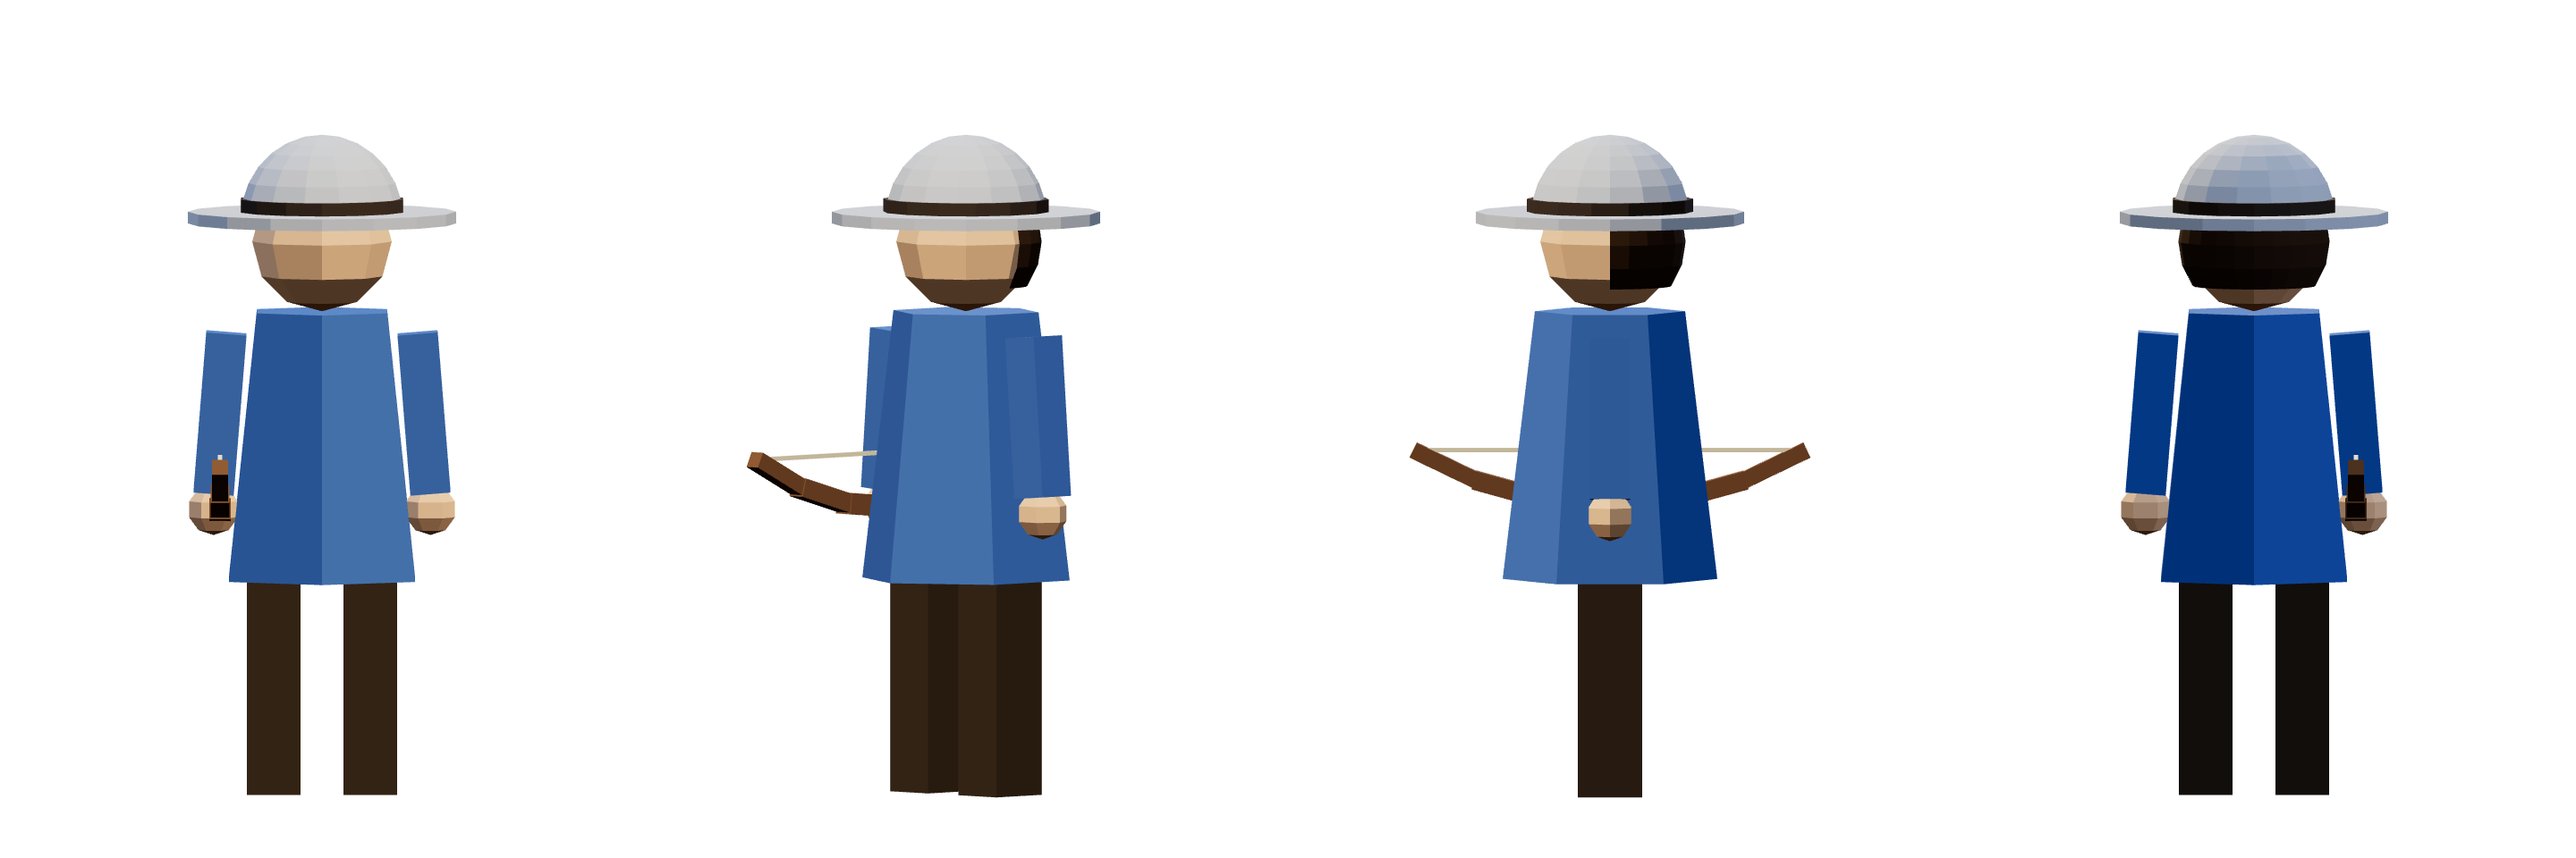
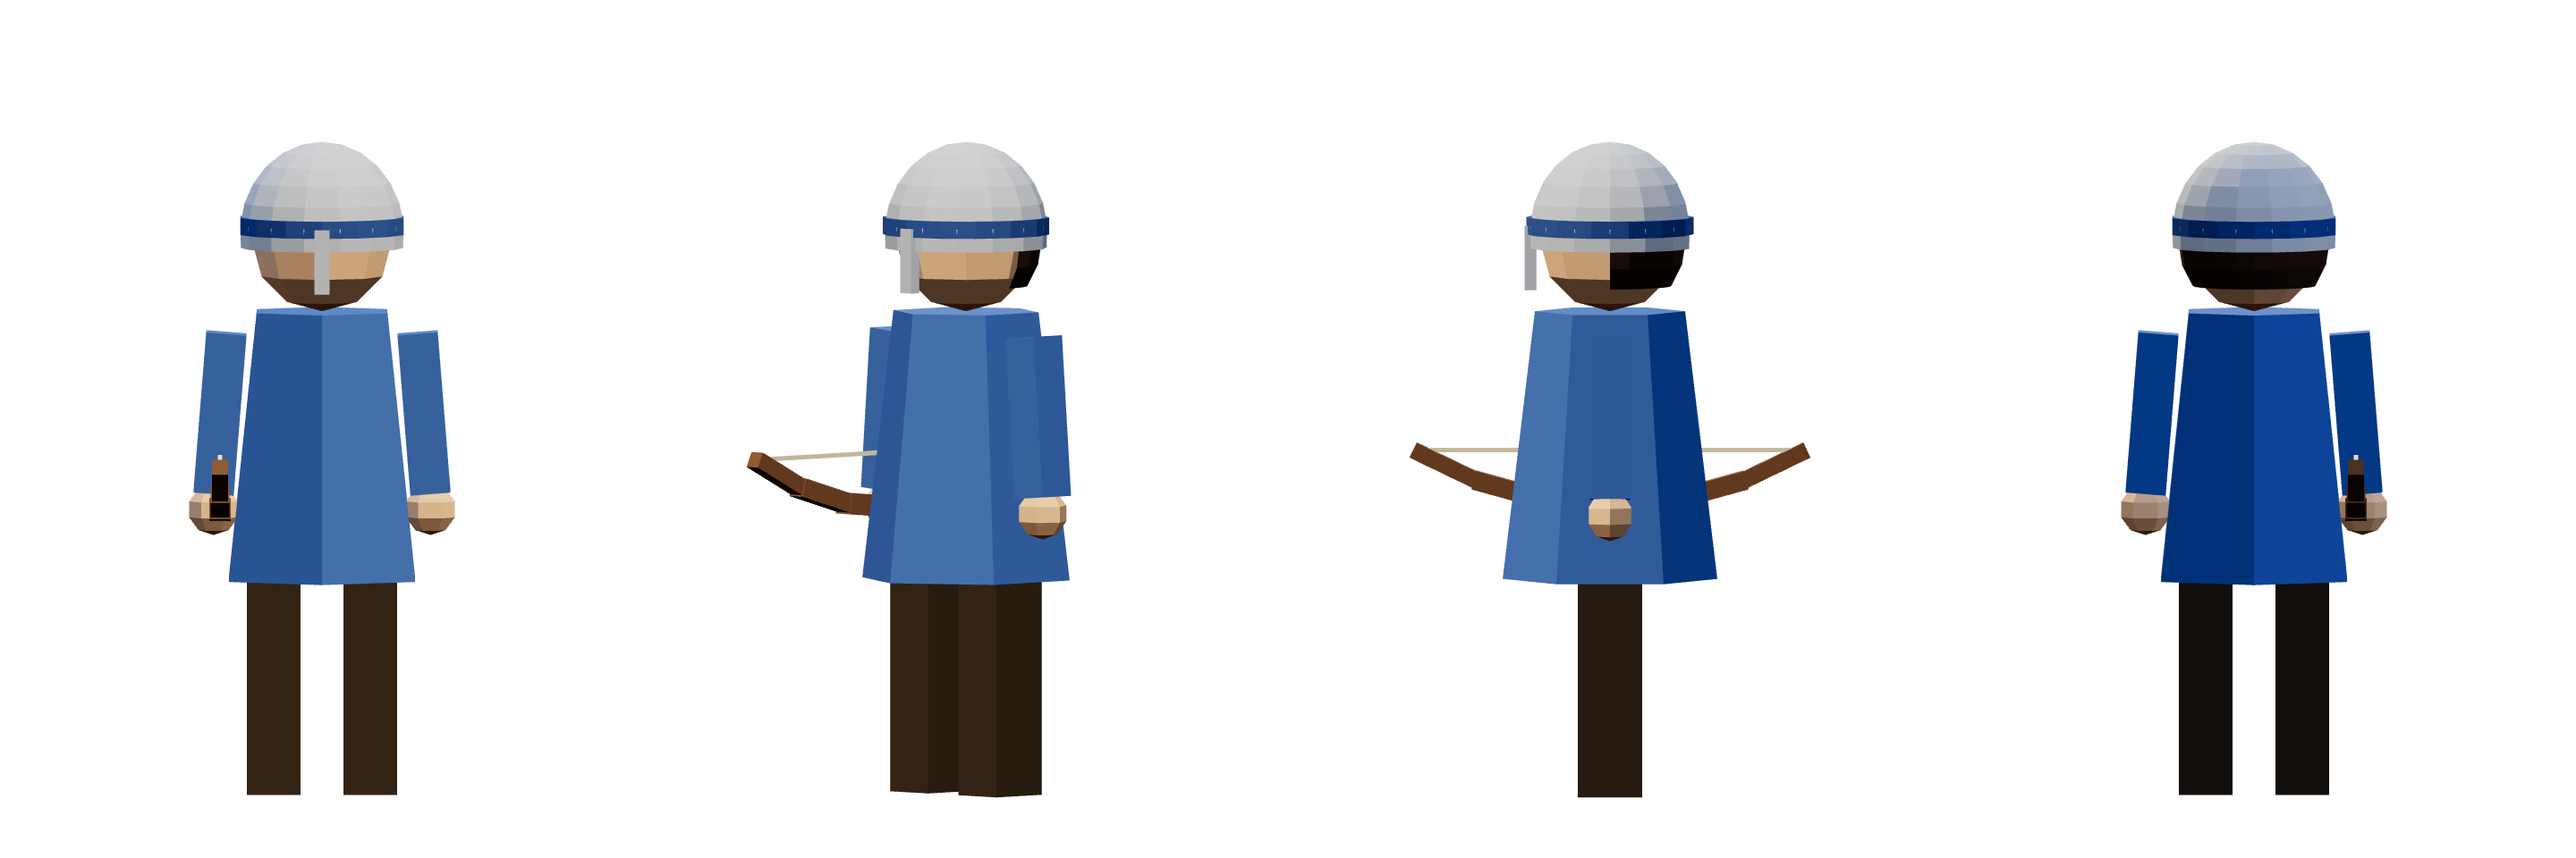
Mason canvas apron, soldier helmet for villager archers, blue flags
- Mason's flat brown block is replaced with a canvas apron curved round the
  body, a pale hem and a leather waist band
- Villager archers on towers and the castle wear a steel round helmet with
  a blue band and nose guard
- The castle's and towers' flags are blue, the town's colour
- Re-rendered design/characters

diff --git a/index.html b/index.html
@@ -498,7 +498,7 @@ grid.visible = false; scene.add(grid);
 // ---------- materials + primitives ----------
 const mat = c => new THREE.MeshStandardMaterial({ color: c, roughness: .9, flatShading: true });
 const M = { plaster: mat('#dccba2'), timber: mat('#6e4c30'), roof: mat('#8d4a2c'), stone: mat('#8a857a'),
-  wood: mat('#957049'), rough: mat('#8a6a48'), dark: mat('#2a2018'), flag: mat('#b8392a'), stone2: mat('#a39d8f'), court: mat('#7d6a4f'),
+  wood: mat('#957049'), rough: mat('#8a6a48'), dark: mat('#2a2018'), flag: mat('#3466b0'), stone2: mat('#a39d8f'), court: mat('#7d6a4f'),
   log: mat('#6e4b2c'), logEnd: mat('#c9a271'), thatch: mat('#b39446'), thatchOld: mat('#9e8650'), tile: mat('#9b4a2e'), mud: mat('#8a7350'),
   iron: mat('#5d6064'), soil: mat('#5e4630'), crop1: mat('#6f8f3a'), crop2: mat('#93a246'), wheat: mat('#d1b45a'), hay: mat('#c9ab55'),
   canvas: mat('#cfc2a0'), banner: mat('#2f4f8a'), leaf: mat('#4f7a32') };
@@ -1590,7 +1590,7 @@ function makeHair(m) {
   return h;
 }
 // headgear for soldiers and raiders, rounded rather than pointed
-const steelM = mat('#a3aab2'), ironM = mat('#5b6067'), bandM = mat('#3b3129'), plumeM = mat('#b3261e'),
+const steelM = mat('#a3aab2'), soldierBandM = mat('#2d4f86'), ironM = mat('#5b6067'), bandM = mat('#3b3129'), plumeM = mat('#b3261e'),
   raiderHoodM = (() => { const m = mat('#3a2a26'); m.side = THREE.DoubleSide; return m; })();
 function makeHelm(kind) {
   const h = new THREE.Group(), add = o => { o.castShadow = true; h.add(o); return o; };
@@ -1598,6 +1598,10 @@ function makeHelm(kind) {
     const d = add(new THREE.Mesh(new THREE.SphereGeometry(.152, 14, 7, 0, Math.PI * 2, 0, Math.PI * .5), steelM)); d.position.y = 1.07; d.scale.y = 1.05;
     add(cyl(.25, .25, .022, 16, steelM, 0, 1.075, 0));
     add(cyl(.155, .155, .03, 14, bandM, 0, 1.095, 0));
+  } else if (kind === 'soldier') {          // town archer: bright steel round helm, blue band, nose guard
+    const d = add(new THREE.Mesh(new THREE.SphereGeometry(.153, 14, 7, 0, Math.PI * 2, 0, Math.PI * .55), steelM)); d.position.y = 1.045; d.scale.y = 1.12;
+    add(cyl(.156, .156, .032, 14, soldierBandM, 0, 1.06, 0));
+    add(box(.028, .12, .022, steelM, 0, 1.0, .148));
   } else if (kind === 'hood') {              // raider archer: dark rounded hood open at the face, short collar
     const d = add(new THREE.Mesh(new THREE.SphereGeometry(.158, 12, 8, Math.PI * .75, Math.PI * 1.5, 0, Math.PI * .66), raiderHoodM)); d.position.set(0, 1.04, -.01);
     add(cyl(.16, .23, .1, 10, raiderHoodM, 0, .9, -.01));
@@ -1647,6 +1651,7 @@ const OUTFIT = {
   hammer: { tunic: mat('#c98f2e'), hat: 'felt', hatM: mat('#6b4a2b'), belt: true },   // builders: amber smock, brown felt hat, tool belt
 };
 const strawM = mat('#d2b56a'), leatherM = mat('#5a4630'), featherM = mat('#b8452c');
+const apronM = (() => { const m = mat('#b9ae96'); m.side = THREE.DoubleSide; return m; })(), apronHemM = (() => { const m = mat('#ddd5c2'); m.side = THREE.DoubleSide; return m; })();
 function dress(v, kind) {
   const O = OUTFIT[kind], tun = O ? O.tunic : v.baseTunic;
   v.torso.material = tun; v.arms.forEach(a => a.userData.sleeve.material = tun);
@@ -1666,7 +1671,13 @@ function dress(v, kind) {
   }
   else if (O.hat === 'felt') { h.add(cyl(.2, .2, .03, 10, O.hatM, 0, 1.12, 0)); h.add(cyl(.12, .13, .11, 10, O.hatM, 0, 1.19, 0)); }
   v.body.add(h); v.hatG = h;
-  if (O && O.apron) { v.apron = box(.27, .36, .03, leatherM, 0, .6, .19); v.body.add(v.apron); }
+  if (O && O.apron) {                       // mason's canvas apron: curved round the front of the body, waist tie and a chalk-pale hem
+    v.apron = new THREE.Group();
+    const cloth = new THREE.Mesh(new THREE.CylinderGeometry(.17, .216, .4, 12, 1, true, -Math.PI / 3, Math.PI * 2 / 3), apronM); cloth.position.y = .56; cloth.castShadow = true; v.apron.add(cloth);
+    const hem = new THREE.Mesh(new THREE.CylinderGeometry(.216, .218, .04, 12, 1, true, -Math.PI / 3, Math.PI * 2 / 3), apronHemM); hem.position.y = .37; v.apron.add(hem);
+    v.apron.add(cyl(.176, .176, .045, 12, leatherM, 0, .77, 0));
+    v.body.add(v.apron);
+  }
   else if (O && O.belt) {                    // leather tool belt with a pouch and a spare chisel
     v.apron = new THREE.Group();
     v.apron.add(cyl(.192, .196, .06, 10, leatherM, 0, .47, 0));
@@ -2072,7 +2083,7 @@ const POSTS = {
 function postOffset(B, a) { const L = POSTS[B.type][B.tier - 1]; return L[a % L.length]; }
 function showDefender(B, a) {
   B.figs = B.figs || [];
-  if (!B.figs[a]) B.figs[a] = makePerson({ tunic: guardTunic, helm: 'kettle', tool: 'bow' });
+  if (!B.figs[a]) B.figs[a] = makePerson({ tunic: guardTunic, helm: 'soldier', tool: 'bow' });
   const f = B.figs[a], o = postOffset(B, a), c = center(B);
   f.g.position.set(c.x + o[0], B.group.position.y + o[1], c.z + o[2]); f.g.rotation.y = Math.atan2(o[0] || .01, o[2] || .01); f.g.visible = true;
 }

diff --git a/CLAUDE.md b/CLAUDE.md
@@ -63,7 +63,7 @@ Castle night posts: T1 = 4 small corner lookout platforms (y 2.55); T2 = wooden 
 - **Instancing**: trees (instanceColor), clutter (320 tufts, pebbles, bushes) hidden on occupied/path cells. Lone trees within 12 m of the castle, forest 12–18 m.
 - **Lights**: pool of 4 PointLights shared by night lamps; gradient sky dome.
 - **Sprites**: HP/progress bars (`fg.center.x=.5/f` trick); floating SVG icon pop-ups for income (`floatRes`).
-- **People**: `makePerson` → arms on pivots (angle 0 = hanging, −1.57 = forward, −3 = overhead). Tools come from `makeTool(kind)` and are parented to the hand (`arms[1]`; bow on `arms[0]`); `giveTool(v,kind)`. Task poses are all one-handed (the single-segment arms can't both reach one handle; the free arm steadies): axe overhead chop, pick overhead strike, hoe bent low, hammer; log on right shoulder with the hand resting on it, stone held at chest in both hands. Axe and hoe heads sit on the local −z side so they lead the swing / face the soil. Bow is a gentle C (arc segments). Colour code: villagers wear yellows (`tunics`), soldiers blue (`guardTunic`), every raider the same red (`raiderRed`). Everyone has short hair (`makeHair`, `hairs` palette); some plain villagers add a soft cloth cap. Headgear via `makeHelm`: soldier steel kettle hat, raider iron dome with nose and cheek guards, captain adds a red crest, raider archer a dark rounded hood. Outfits via `OUTFIT`/`dress()`: lumberjack yellow/brown checked shirt (`plaidMat` canvas texture) + green wool cap with feather, mason khaki + grey cloth bonnet + leather apron, farmer straw yellow + straw hat, builder amber smock + brown felt hat + tool belt. Renders of all of them: `design/characters/`.
+- **People**: `makePerson` → arms on pivots (angle 0 = hanging, −1.57 = forward, −3 = overhead). Tools come from `makeTool(kind)` and are parented to the hand (`arms[1]`; bow on `arms[0]`); `giveTool(v,kind)`. Task poses are all one-handed (the single-segment arms can't both reach one handle; the free arm steadies): axe overhead chop, pick overhead strike, hoe bent low, hammer; log on right shoulder with the hand resting on it, stone held at chest in both hands. Axe and hoe heads sit on the local −z side so they lead the swing / face the soil. Bow is a gentle C (arc segments). Colour code: villagers wear yellows (`tunics`), soldiers blue (`guardTunic`), every raider the same red (`raiderRed`); the town's flags (`M.flag`) are blue. Everyone has short hair (`makeHair`, `hairs` palette); some plain villagers add a soft cloth cap. Headgear via `makeHelm`: villager archers on posts a bright steel round helm with a blue band and nose guard (`soldier`; `kettle` also exists), raider iron dome with nose and cheek guards, captain adds a red crest, raider archer a dark rounded hood. Outfits via `OUTFIT`/`dress()`: lumberjack yellow/brown checked shirt (`plaidMat` canvas texture) + green wool cap with feather, mason khaki + grey cloth bonnet + curved canvas apron with a leather waist band, farmer straw yellow + straw hat, builder amber smock + brown felt hat + tool belt. Renders of all of them: `design/characters/`.
 - **Ambient**: bird flocks every 45–95 s (scale 0.55, half circle), waving flags.
 
 ## Audio

diff --git a/design/characters/README.md b/design/characters/README.md
@@ -12,9 +12,9 @@ Colour code: villagers wear yellows, soldiers blue, raiders red.
 | `villager.png` / `villager2.png` | Villager with a soft cloth cap, and with just hair (shirt shade and hair colour vary in game) |
 | `farmer.png` | Farmer: straw-yellow shirt, straw hat, hoe |
 | `lumberjack.png` | Lumberjack: yellow and brown checked shirt, green wool cap with feather, axe |
-| `mason.png` | Mason: khaki shirt, grey cloth bonnet, leather apron, pick |
+| `mason.png` | Mason: khaki shirt, grey cloth bonnet, canvas apron with a leather waist band, pick |
 | `builder.png` | Builder: amber smock, brown felt hat, tool belt, hammer |
-| `guard_archer.png` | Soldier archer on towers and the castle: blue shirt, steel kettle helmet, bow |
+| `guard_archer.png` | Villager archer on towers and the castle: blue shirt, steel round helmet with a blue band and nose guard, bow |
 | `raider_swordsman.png` | Raider swordsman: red shirt, iron helmet with nose guard, sword, shield |
 | `raider_archer.png` | Raider archer: red shirt, dark hood, bow |
 | `raider_captain.png` | Raider captain (wave 3): like the swordsman with a red crest, 1.35x size |
